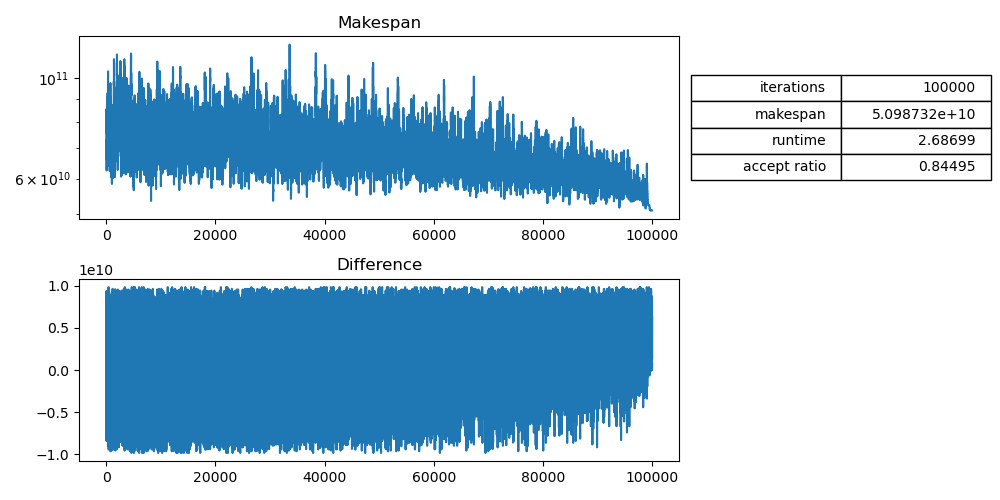
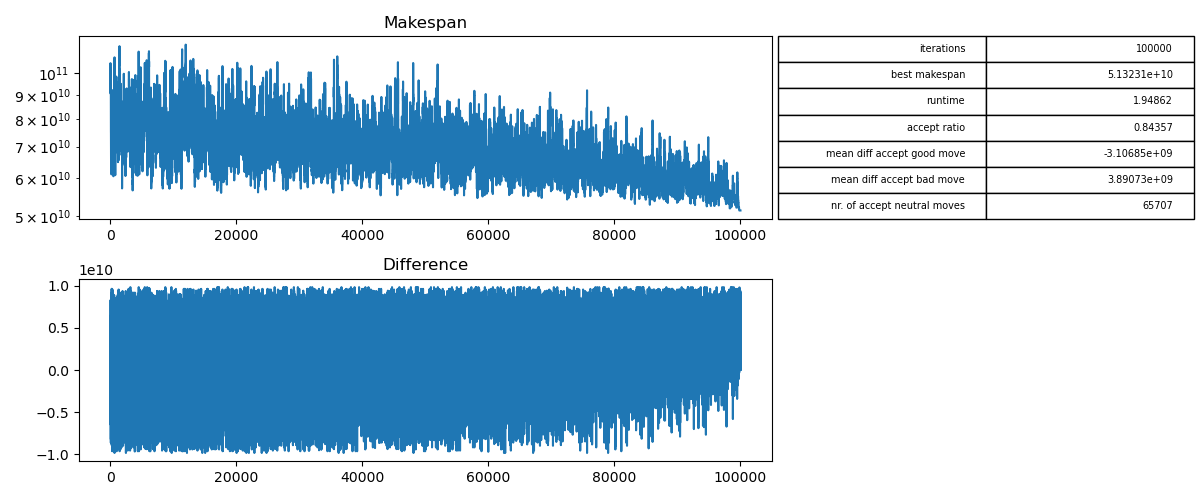
added more information to the experiments/plots

diff --git a/simann/acceptance_comparison.py b/simann/acceptance_comparison.py
@@ -10,20 +10,20 @@ instance = SimulatedAnnealing.fromFile(jobs_file, m)
 # output filename
 output_prefix = "./experiments/accept_exp"
 
-#accept_exp1 = instance.start(100000, exponentialDecay, 8e10, 4e12)  
-#accept_exp1.plotResults("{}1.png".format(output_prefix))
+accept_exp1 = instance.start(100000, exponentialDecay, 8e10, 4e12)  
+accept_exp1.plotResults("{}1.png".format(output_prefix))
 
-#accept_exp2 = instance.start(100000, exponentialDecay, 8e10, 4e10)
-#accept_exp2.plotResults("{}2.png".format(output_prefix))
+accept_exp2 = instance.start(100000, exponentialDecay, 8e10, 4e10)
+accept_exp2.plotResults("{}2.png".format(output_prefix))
 
-#accept_exp3 = instance.start(100000, exponentialDecayNonInc, 8e10, 4e12)
-#accept_exp3.plotResults("{}3.png".format(output_prefix))
+accept_exp3 = instance.start(100000, exponentialDecayNonInc, 8e10, 4e12)
+accept_exp3.plotResults("{}3.png".format(output_prefix))
 
-#accept_exp4 = instance.start(100000, exponentialDecayNonInc, 8e10, 4e10)
-#accept_exp4.plotResults("{}4.png".format(output_prefix))
+accept_exp4 = instance.start(100000, exponentialDecayNonInc, 8e10, 4e10)
+accept_exp4.plotResults("{}4.png".format(output_prefix))
 
-accept_exp5 = instance.start(10000, exponentialDecayGreedy, 1e-10, 4e12)
+accept_exp5 = instance.start(100000, exponentialDecayGreedy, 1e-10, 4e12)
 accept_exp5.plotResults("{}5.png".format(output_prefix))
 
-accept_exp6 = instance.start(10000, exponentialDecayGreedy, 3e-10, 4e12)
+accept_exp6 = instance.start(100000, exponentialDecayGreedy, 3e-10, 4e12)
 accept_exp6.plotResults("{}6.png".format(output_prefix))

diff --git a/simann/experiment.py b/simann/experiment.py
@@ -79,8 +79,8 @@ class Experiment:
         If file_name is provided then it saves the plot to file instead.
         '''
 
-        fig = plt.figure(figsize=(10, 5))
-        gs = GridSpec(nrows=2, ncols=2, width_ratios=[3, 1], height_ratios=[1, 1])
+        fig = plt.figure(figsize=(12, 5))
+        gs = GridSpec(nrows=2, ncols=2, width_ratios=[3, 1.2], height_ratios=[1, 1])
 
         ax0 = fig.add_subplot(gs[0, 0])
         plt.title('Makespan')
@@ -98,7 +98,9 @@ class Experiment:
             ['best makespan', "{:.5e}".format(self.best_makespan)],
             ['runtime', str(round(self.runtime, 5))],
             ['accept ratio', self.accept_ratio],
-            ['mean diff good move', "{:.5e}".format(round(mean(self.accepted_good_difference_lst)))]
+            ['mean diff accept good move', "{:.5e}".format(round(mean(self.accepted_good_difference_lst)))],
+            ['mean diff accept bad move', "{:.5e}".format(round(mean(self.accepted_bad_difference_lst)))],
+            ['nr. of accept neutral moves', self.accepted_zero_difference]
         ]
         ax2.axis('tight')
         ax2.axis('off')
